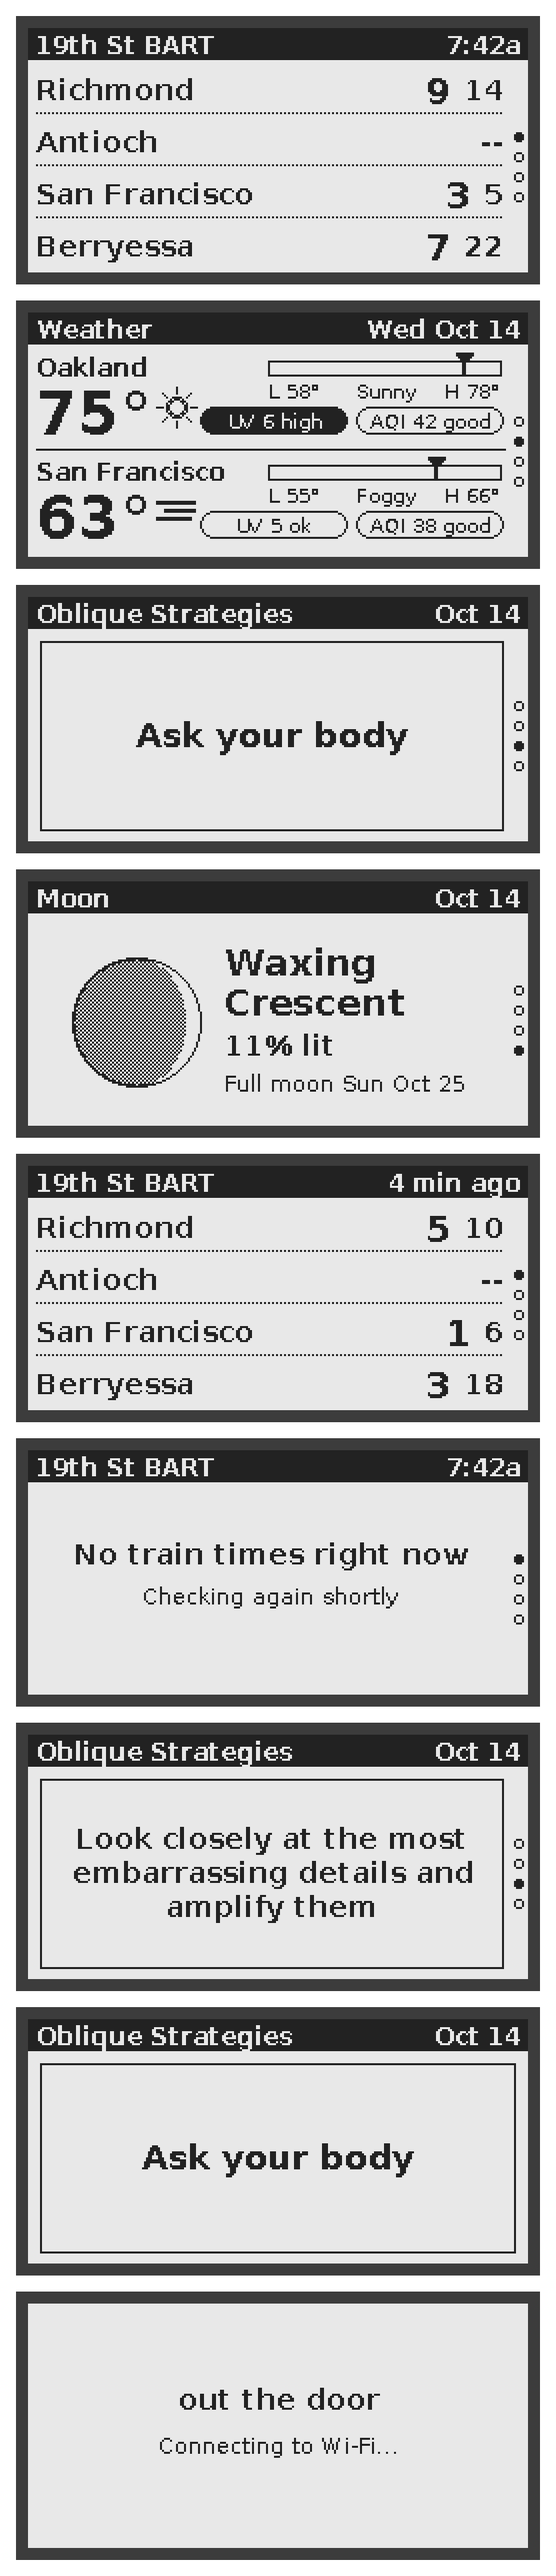
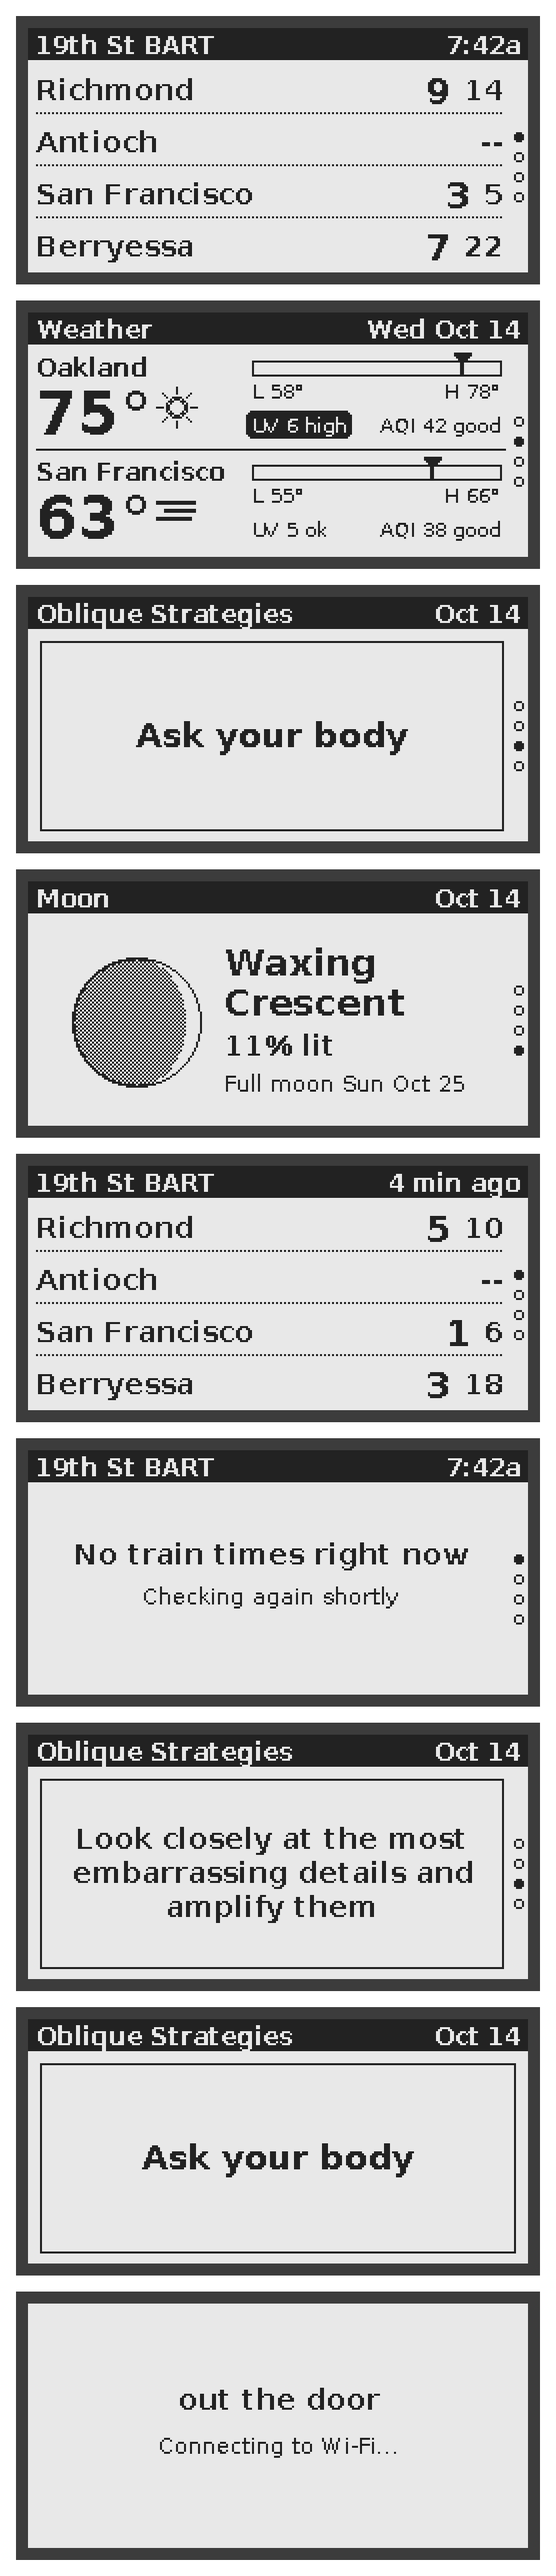
Weather: calmer layout
Drop the pill outlines and the condition word (the icon says it); UV and
AQI are plain text hung off the day bar's two ends, with only a warning
shown white on black.

Claude-Session: https://claude.ai/code/session_01M5UbGXJzkkxR9ktM5CU7Wv

Changed region(s): [[0.6547, 0.1555, 0.9041, 0.2177], [0.3741, 0.1555, 0.6547, 0.2177]]

diff --git a/lib/core/screens.cpp b/lib/core/screens.cpp
@@ -136,15 +136,12 @@ static void smallIcon(Adafruit_GFX &g, Icon kind, int cx, int cy) {
   }
 }
 
-// A rounded pill with centred text: solid black for a warning, else outlined.
-static void pill(Adafruit_GFX &g, int x0, int x1, int y0, int y1, const char *text, bool warn) {
-  const int w = x1 - x0, h = y1 - y0, r = 7;
-  if (warn) {
-    g.fillRoundRect(x0, y0, w, h, r, INK);
-  } else {
-    g.drawRoundRect(x0, y0, w, h, r, INK);
-  }
-  drawTextCenter(g, SANS10, (x0 + x1) / 2, y0 + 1, text, warn ? PAPER : INK);
+// Plain small text; a warning is shown white on a black tag.
+static void note(Adafruit_GFX &g, int x, int y, bool alignRight, const char *text, bool warn) {
+  const int w = textWidth(SANS10, text);
+  if (alignRight) x -= w;
+  if (warn) g.fillRoundRect(x - 3, y - 1, w + 6, SANS10.height + 1, 3, INK);
+  drawText(g, SANS10, x, y, text, warn ? PAPER : INK);
 }
 
 void drawWeather(Adafruit_GFX &g, const Now &now, const CityConfig *config, const CityWeather *cities) {
@@ -164,8 +161,8 @@ void drawWeather(Adafruit_GFX &g, const Now &now, const CityConfig *config, cons
     drawText(g, BOLD30, 4, row + 13, buf, INK);
     smallIcon(g, c.icon, 74, row + 27);
 
-    // Where today's temperature sits between the low and the high.
-    const int bx0 = 120, bx1 = CONTENT_R - 2, by0 = row + 4, by1 = row + 11;
+    // Everything on the right hangs off the day bar's two ends.
+    const int bx0 = 112, bx1 = CONTENT_R - 2, by0 = row + 4, by1 = row + 11;
     g.fillRect(bx0, by0, bx1 - bx0 + 1, by1 - by0 + 1, PAPER);
     g.drawRect(bx0, by0, bx1 - bx0 + 1, by1 - by0 + 1, INK);
     int mx = c.high > c.low ? bx0 + (c.temp - c.low) * (bx1 - bx0) / (c.high - c.low) : (bx0 + bx1) / 2;
@@ -175,19 +172,18 @@ void drawWeather(Adafruit_GFX &g, const Now &now, const CityConfig *config, cons
     g.fillRect(mx - 1, by0, 2, by1 - by0 + 1, INK);
     snprintf(buf, sizeof buf, "L %d\xB0", c.low);
     drawText(g, SANS10, bx0, row + 13, buf, INK);
-    drawTextCenter(g, SANS10, (bx0 + bx1) / 2 + 1, row + 13, c.label, INK);
     snprintf(buf, sizeof buf, "H %d\xB0", c.high);
     drawTextRight(g, SANS10, bx1, row + 13, buf, INK);
 
     if (c.uv >= 0) {
       const char *rating = c.uv <= 2 ? "low" : c.uv <= 5 ? "ok" : c.uv <= 7 ? "high" : "v.high";
       snprintf(buf, sizeof buf, "UV %d %s", c.uv, rating);
-      pill(g, 86, 160, row + 27, row + 41, buf, c.uv > 5);
+      note(g, bx0, row + 30, false, buf, c.uv > 5);
     }
     if (c.aqi >= 0) {
       const char *rating = c.aqi <= 50 ? "good" : c.aqi <= 100 ? "fair" : c.aqi <= 150 ? "bad" : "v.bad";
       snprintf(buf, sizeof buf, "AQI %d %s", c.aqi, rating);
-      pill(g, 164, CONTENT_R, row + 27, row + 41, buf, c.aqi > 100);
+      note(g, bx1, row + 30, true, buf, c.aqi > 100);
     }
   }
   pageDots(g, 1);
